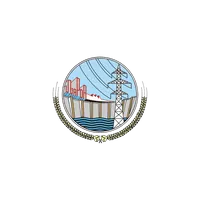
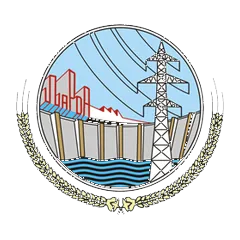
COO

diff --git a/src/components/About.jsx b/src/components/About.jsx
@@ -468,19 +468,33 @@ export default function About() {
               <div className="mt-5 h-1 w-16 rounded-full bg-orange-600" />
             </div>
 
-            <ul className="mt-8 grid list-none grid-cols-2 gap-3 p-0 sm:grid-cols-3 sm:gap-3.5 md:grid-cols-4 lg:grid-cols-6">
+            <ul className="mt-8 grid list-none grid-cols-2 gap-3 p-0 sm:grid-cols-3 sm:gap-3.5 md:grid-cols-4 lg:grid-cols-5">
               {cooOrganizations.map((org) => (
                 <li key={org.name}>
                   <div className="group flex h-full flex-col items-center rounded-2xl border border-slate-200 bg-slate-50/60 px-3 py-4 text-center shadow-sm shadow-[#04172f]/5 transition-all duration-200 ease-out hover:-translate-y-0.5 hover:border-[#ea580c]/35 hover:shadow-md hover:shadow-[#04172f]/8 sm:px-3.5 sm:py-5">
-                    <div className="flex h-[4.5rem] w-full items-center justify-center sm:h-20 md:h-[5.25rem]">
+                    <div
+                      className={`flex w-full items-center justify-center ${
+                        org.size === 'xl'
+                          ? 'h-28 sm:h-32 md:h-36'
+                          : org.size === 'lg'
+                            ? 'h-24 sm:h-28 md:h-[7.25rem]'
+                            : 'h-[5.25rem] sm:h-24 md:h-28'
+                      }`}
+                    >
                       <img
                         src={org.logo}
                         alt={`${org.name} logo`}
-                        className="max-h-full max-w-[90%] object-contain"
+                        className={`object-contain ${
+                          org.size === 'xl'
+                            ? 'max-h-full max-w-full scale-[1.35]'
+                            : org.size === 'lg'
+                              ? 'max-h-full max-w-[96%] scale-110'
+                              : 'max-h-full max-w-[92%]'
+                        }`}
                         loading="lazy"
                         decoding="async"
-                        width={96}
-                        height={96}
+                        width={112}
+                        height={112}
                       />
                     </div>
 

diff --git a/src/data/cooOrganizations.js b/src/data/cooOrganizations.js
@@ -4,7 +4,6 @@ import ctg from '../assets/partners/03_ctg.webp'
 import paf from '../assets/partners/04_paf.webp'
 import abnlp from '../assets/partners/05_abnlp.webp'
 import tlta from '../assets/partners/06_tlta.webp'
-import abnlpCoaching from '../assets/partners/07_abnlp_coaching.webp'
 import wahMedical from '../assets/partners/08_wah_medical_college.webp'
 import armyMedical from '../assets/partners/09_army_medical_college.webp'
 import hubco from '../assets/partners/10_hubco_laraib.webp'
@@ -21,24 +20,23 @@ import comsats from '../assets/partners/20_comsats.webp'
 import aghosh from '../assets/partners/21_aghosh.webp'
 
 const cooOrganizations = [
-  { name: 'Air University', logo: airUniversity },
-  { name: 'Nayatel', logo: nayatel },
+  { name: 'Air University', logo: airUniversity, size: 'lg' },
+  { name: 'Nayatel', logo: nayatel, size: 'lg' },
   { name: 'China Three Gorges (CTG)', logo: ctg },
   { name: 'Pakistan Air Force', logo: paf },
   { name: 'ABNLP', logo: abnlp },
   { name: 'Time Line Therapy Association', logo: tlta },
-  { name: 'ABNLP Coaching Division', logo: abnlpCoaching },
   { name: 'Wah Medical College', logo: wahMedical },
   { name: 'Army Medical College', logo: armyMedical },
-  { name: 'HUBCO / Laraib Energy', logo: hubco },
+  { name: 'HUBCO', logo: hubco },
   { name: 'FAST / NUCES', logo: fastNuces },
-  { name: 'WAPDA', logo: wapda },
+  { name: 'WAPDA', logo: wapda, size: 'lg' },
   { name: 'NUST', logo: nust },
   { name: 'IEST', logo: iest },
   { name: 'PIDE', logo: pide },
   { name: 'PIPS', logo: pips },
   { name: 'Shifa International', logo: shifa },
-  { name: 'Telenor', logo: telenor },
+  { name: 'Telenor', logo: telenor, size: 'xl' },
   { name: 'S&P Global', logo: spGlobal },
   { name: 'COMSATS University', logo: comsats },
   { name: 'Alkhidmat Aghosh', logo: aghosh },

diff --git a/tmp_logos/replace_user_logos.py b/tmp_logos/replace_user_logos.py
@@ -1,0 +1,85 @@
+#!/usr/bin/env python3
+"""Compress user-provided logos and write WebP partners assets."""
+from __future__ import annotations
+
+import io
+from pathlib import Path
+
+from PIL import Image
+
+ASSETS = Path(r"C:\Users\user\.cursor\projects\f-MERN-TalenTiT\assets")
+DEST = Path(__file__).resolve().parents[1] / "src" / "assets" / "partners"
+SIZE = 240
+QUALITY = 80
+
+# (dest slug, source filename substring)
+REPLACEMENTS = [
+    ("03_ctg", "CTG-1485b8e3"),
+    ("16_pips", "PIPS-3f6116df"),
+    ("19_sp_global", "S_P_Global-941af9dc"),
+    ("06_tlta", "Time_Line_Therapy_Association-52f827c1"),
+    # Filename says Shifa, but image is the classic WAPDA crest — apply to WAPDA.
+    ("12_wapda", "Shifa-1ee32d92"),
+    ("10_hubco_laraib", "HUBCO-bbcacc57"),
+]
+
+
+def find_src(token: str) -> Path:
+    matches = list(ASSETS.glob(f"*{token}*"))
+    if not matches:
+        raise FileNotFoundError(token)
+    return matches[0]
+
+
+def knock_uniform_bg(img: Image.Image, threshold: int = 24) -> Image.Image:
+    img = img.convert("RGBA")
+    px = img.load()
+    w, h = img.size
+    corners = [px[0, 0], px[w - 1, 0], px[0, h - 1], px[w - 1, h - 1]]
+    avg = tuple(sum(c[i] for c in corners) // 4 for i in range(3))
+    dark = all(v < 35 for v in avg)
+    light = all(v > 235 for v in avg)
+    if not (dark or light):
+        return img
+    out = img.copy()
+    opx = out.load()
+    for y in range(h):
+        for x in range(w):
+            r, g, b, a = opx[x, y]
+            if dark and r < threshold and g < threshold and b < threshold:
+                opx[x, y] = (r, g, b, 0)
+            elif light and r > 255 - threshold and g > 255 - threshold and b > 255 - threshold:
+                opx[x, y] = (r, g, b, 0)
+    return out
+
+
+def normalize(img: Image.Image) -> Image.Image:
+    img = knock_uniform_bg(img)
+    bbox = img.getbbox()
+    if bbox:
+        img = img.crop(bbox)
+    # keep aspect; pad to square
+    pad = 16
+    max_side = SIZE - pad * 2
+    img.thumbnail((max_side, max_side), Image.Resampling.LANCZOS)
+    canvas = Image.new("RGBA", (SIZE, SIZE), (0, 0, 0, 0))
+    canvas.paste(img, ((SIZE - img.width) // 2, (SIZE - img.height) // 2), img)
+    return canvas
+
+
+def main() -> None:
+    DEST.mkdir(parents=True, exist_ok=True)
+    for slug, token in REPLACEMENTS:
+        src = find_src(token)
+        print(f"{slug} <- {src.name} ({src.stat().st_size})")
+        data = src.read_bytes()
+        img = Image.open(io.BytesIO(data))
+        img.load()
+        out = normalize(img)
+        dest = DEST / f"{slug}.webp"
+        out.save(dest, "WEBP", quality=QUALITY, method=6)
+        print(f"  -> {dest.name} {dest.stat().st_size}")
+
+
+if __name__ == "__main__":
+    main()
